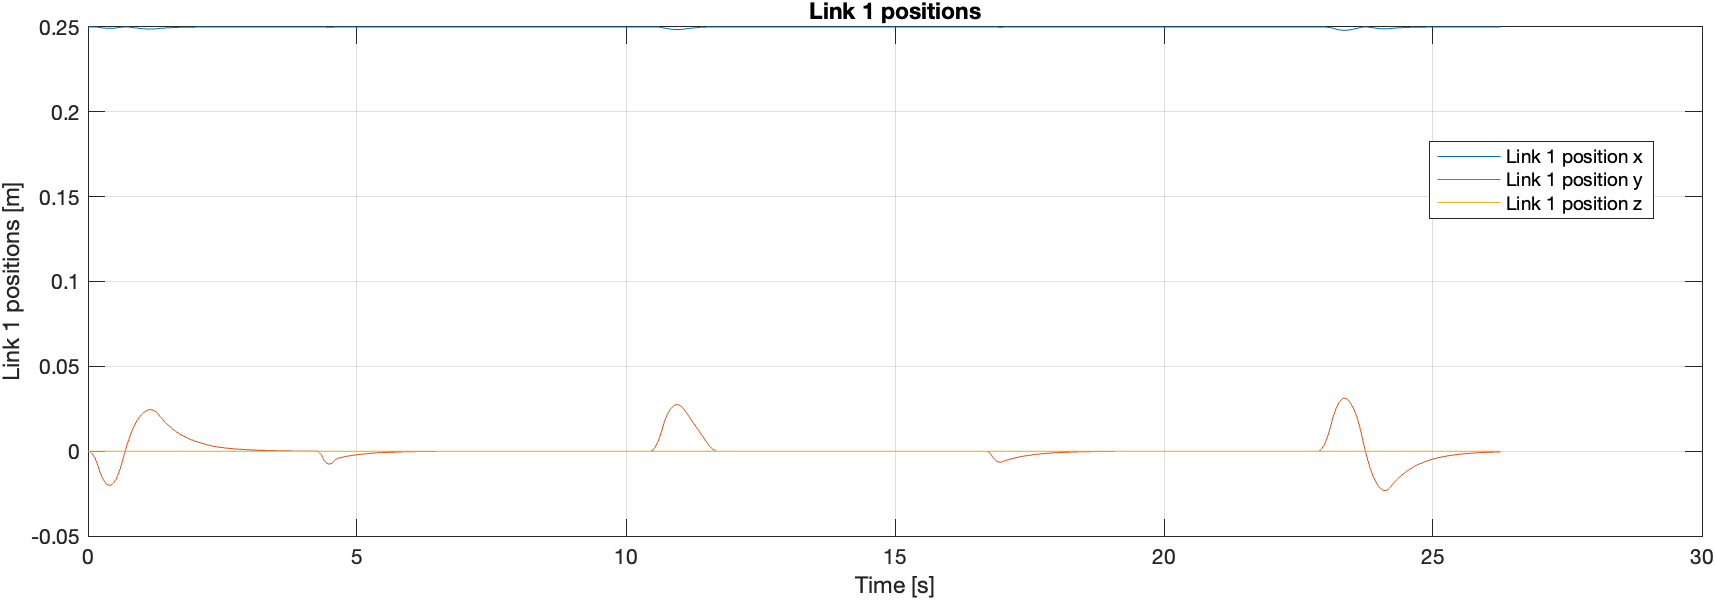
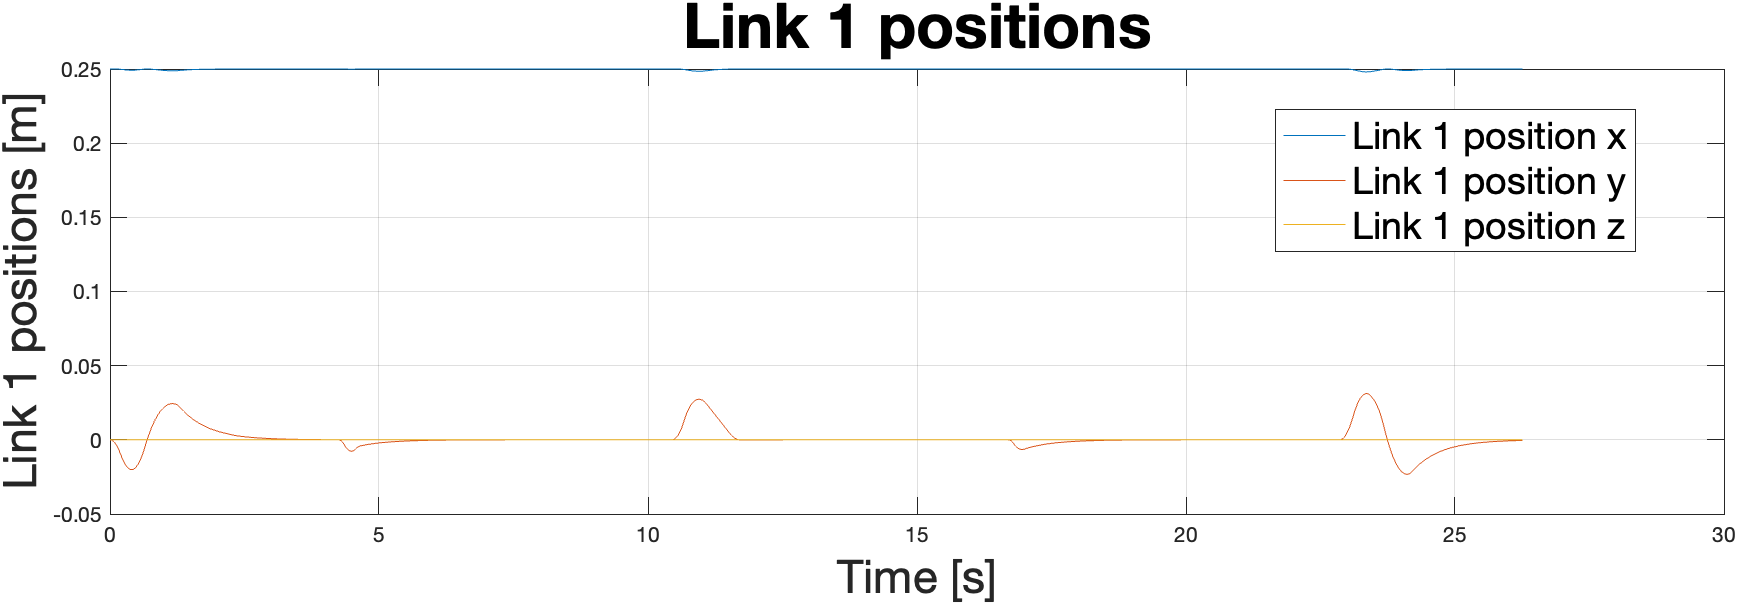
update images

diff --git a/Simulation/Simulations/Simulation_Planar4R.m b/Simulation/Simulations/Simulation_Planar4R.m
@@ -326,13 +326,13 @@ classdef Simulation_Planar4R
 
 
                 % SNS solution single task (first task)
-                q_ddot_new = SNS_acceleration_multitask(n, {m1}, {J1_h}, {J1_dot_h}, {x1_ddot_d_h}, bounds, q_h, q_dot_h, T, false);                                
+                %q_ddot_new = SNS_acceleration_multitask(n, {m1}, {J1_h}, {J1_dot_h}, {x1_ddot_d_h}, bounds, q_h, q_dot_h, T, false);                                
                 
                 % SNS solution multiple task (first + second task)
                 %q_ddot_new = SNS_acceleration_multitask(n, {m1, m2}, {J1_h, J2_h}, {J1_dot_h, J2_dot_h}, {x1_ddot_d_h, x2_ddot_d_h}, bounds, q_h, q_dot_h, T, false);                                                
                             
                 % SNS solution multiple task (first + third task)
-                %q_ddot_new = SNS_acceleration_multitask(n, {m1, m3}, {J1_h, J3_h}, {J1_dot_h, J3_dot_h}, {x1_ddot_d_h, q_ddot_cs}, bounds, q_h, q_dot_h, T, false);                                                
+                q_ddot_new = SNS_acceleration_multitask(n, {m1, m3}, {J1_h, J3_h}, {J1_dot_h, J3_dot_h}, {x1_ddot_d_h, q_ddot_cs}, bounds, q_h, q_dot_h, T, false);                                                
 
 
                 q_dot_new = q_dot_h + q_ddot_new*T;

diff --git a/Simulation/MATLAB_Simulation/MATLAB_simulation.m b/Simulation/MATLAB_Simulation/MATLAB_simulation.m
@@ -25,10 +25,10 @@ classdef MATLAB_simulation
         function self = MATLAB_simulation(sim)
             
             clear figure;
-            self.folder_path = '/Users/valeriospagnoli/Documents/MATLAB/Robotics/MultiTask_SNS/Simulation/Results/Planar4R/task1/Plots/';
-            self.title_font_size = 16;
-            self.label_font_size = 12;
-            self.legend_font_size = 10;
+            self.folder_path = '/Users/valeriospagnoli/Documents/MATLAB/Robotics/MultiTask_SNS/Simulation/Results/Planar4R/task1_task3/Plots/';
+            self.title_font_size = 30;
+            self.label_font_size = 22;
+            self.legend_font_size = 18;
 
             self.robot = sim.robot;
             if strcmp(self.robot.name, 'KUKA_LBR_IIWA_7_R800')
